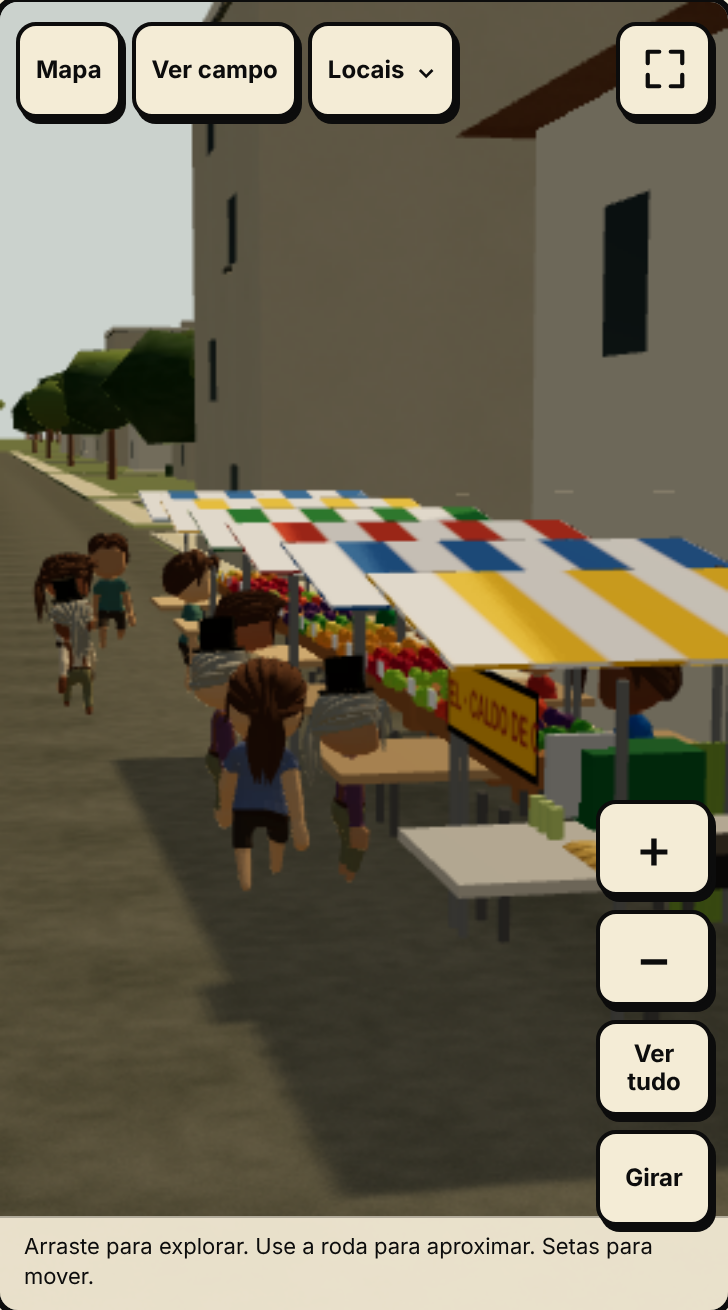
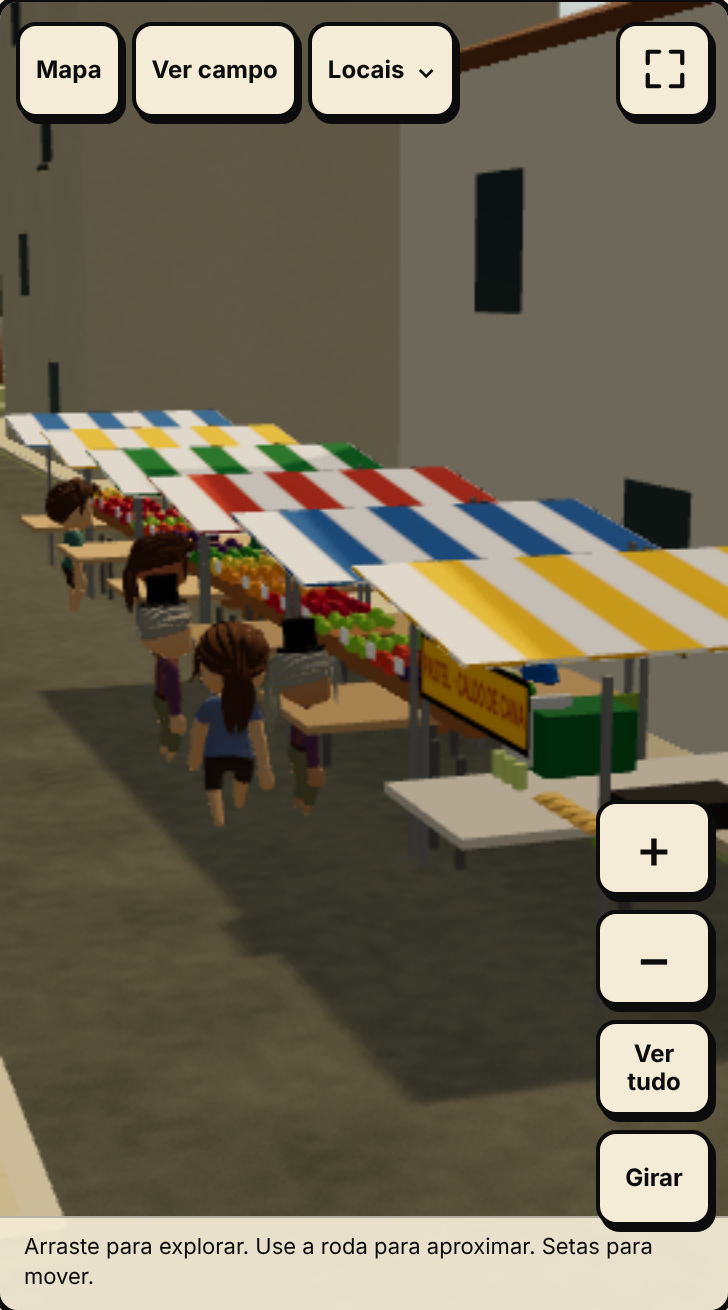
Mapa do Clube: feira livre (sáb/dom de manhã), banca de jornal com O MARTELO e pelada no campinho de terra (de tarde)
- Feira: 6 barracas de lona listrada, caixotes de fruta, feirantes, fregueses e pastel com caldo de cana numa rua do bairro
- Banca verde com revistas, jornaleiro e capa d'O MARTELO com o último jogo já apitado (sem dado: O PREGÃO ESTÁ ABERTO)
- Campinho: praça perto do boteco vira terrão (sem a cruz de calçada), trave de madeira e gol de chinelo; molecada só de tarde
- Câmeras das três vistas ajustadas pro celular, capa sem estourar a largura, fotos em scripts/mockups/mapa-bairro-*.png
- Pendências atualizadas

Claude-Session: https://claude.ai/code/session_018Ap1zPCMVL9XeZJN3u93ZA

diff --git a/src/escalacao/presidencia-bairro-tradicoes-3d.ts b/src/escalacao/presidencia-bairro-tradicoes-3d.ts
@@ -171,7 +171,7 @@ export function criarTradicoesBairro(scene:THREE.Scene,input:{bairro?:BairroEnto
   {const p=at(0,D/2+.53),s=new THREE.Mesh(plano,mat({map:letreiro,roughness:.9}));s.name='banca-letreiro';s.position.set(p.x,y0+H+.15,p.z);s.rotation.y=b.yaw;s.scale.set(W+.4,.38,1);banca.add(s)}
   desenhaLetreiro();letreiroLang=getLang();desenhaCapa(null)
   // a fonte Oswald pode chegar depois do primeiro desenho: redesenha quando ela estiver pronta
-  try{document.fonts?.ready.then(()=>{if(!capa)return;capaKey='';desenhaCapa(ultimoCapa);desenhaLetreiro();input.onReady()}).catch(()=>{})}catch{/* sem FontFaceSet */}
+  try{Promise.all([document.fonts.load(`900 58px ${FONTE}`),document.fonts.load(`700 19px ${FONTE}`)]).then(()=>{if(!capa)return;capaKey='';desenhaCapa(ultimoCapa);desenhaLetreiro();input.onReady()}).catch(()=>{})}catch{/* sem FontFaceSet */}
   {const p=at(0,-.1);pessoa('jornaleiro','banca','older-man','#e8e0c9',parado(p.x,p.z,b.yaw))}
  }
 
@@ -247,7 +247,7 @@ export function criarTradicoesBairro(scene:THREE.Scene,input:{bairro?:BairroEnto
  /** câmera de cada lugar (alvo e posição); `aspect` < .85 = celular em pé, afasta um pouco */
  function vista(kind:VistaTradicao,aspect:number):{target:[number,number,number];camera:[number,number,number]}|undefined{
   const k=aspect<.85?1.45:1
-  if(kind==='feira'&&lugares.feira){const q=quadroDaRua(lugares.feira),m=q.at(q.L*.45,1.2),o=q.at(-3-3.2*k,-2.4);return{target:[m.x,.9,m.z],camera:[o.x,3.2+2.4*k,o.z]}} // da esquina, olhando a rua da feira inteira
+  if(kind==='feira'&&lugares.feira){const q=quadroDaRua(lugares.feira),m=q.at(q.L*.38,1.3),o=q.at(-1.5-2.4*k,-4.2);return{target:[m.x,1,m.z],camera:[o.x,2.3+1.4*k,o.z]}} // da esquina, olhando a rua da feira inteira
   if(kind==='banca'&&lugares.banca){const b=lugares.banca,fx=Math.sin(b.yaw),fz=Math.cos(b.yaw),sx=Math.cos(b.yaw),sz=-Math.sin(b.yaw),tx=b.x+fx*1.3+sx*.8,tz=b.z+fz*1.3+sz*.8;return{target:[tx,1.3,tz],camera:[tx+fx*6.6*k+sx*3*k,2.4+1.1*k,tz+fz*6.6*k+sz*3*k]}}
   if(kind==='campinho'&&lugares.campinho){const c=lugares.campinho;return{target:[c.x-1.5,.3,c.z],camera:[c.x+LX+9*k,4+5*k,c.z+5*k]}} // de trás do gol de chinelo, olhando o campinho todo
   return undefined

diff --git a/docs/pendencias.md b/docs/pendencias.md
@@ -1,3 +1,12 @@
+## 🇧🇷 04/11 — Mapa da aba Clube: tradições do bairro (LOCAL, branch do agente, só a conta de teste do Diego)
+Pedido aprovado: *"coisas bem tradicionais do Brasil, espalhadas pelo mapa, mudando com a hora e o calendário"*.
+- 🍅 **Feira livre**: sábado e domingo de MANHÃ (dia da semana do calendário da carreira; sem calendário, regra estável pela rodada). 6 barracas de lona listrada (amarelo/azul/vermelho/verde), caixotes de fruta, feirantes, fregueses andando e a barraca de pastel com caldo de cana, numa rua do bairro perto do Boteco do Oswaldo (longe do estádio, portões, ônibus e patrocinadores). Fora do horário, rua normal.
+- 📰 **Banca de jornal**: sempre, numa esquina perto do boteco. Verde-escura, revistas penduradas, jornaleiro e o cavalete com a capa d'O MARTELO: manchete do último jogo JÁ APITADO (o mesmo `ultimoJogo` da cidade viva); sem dado, "O PREGÃO ESTÁ ABERTO". Nunca spoiler.
+- ⚽ **Pelada no campinho de terra**: a praça pública mais perto do boteco virou terrão (sem árvore, banco e cruz de calçada). De TARDE, 10 moleques (8 no celular) atrás da bola, trave de madeira de um lado e gol de chinelo do outro; manhã/noite, só as traves.
+- Locais: "Feira livre", "Banca de jornal", "Campinho de terra" (PT/EN). QA: botões 🍅 sábado de manhã / ⚽ quinta à tarde / 🌙 quarta à noite (`window.qaBairro`).
+- Código: `presidencia-bairro-tradicoes.ts` (regras puras) · `presidencia-bairro-tradicoes-3d.ts` (desenho em InstancedMesh, 4 texturas de canvas pequenas, sem luz/sombra nova, tudo em try/catch) · trava `scripts/imersao-mapa/test-bairro-tradicoes.mjs` · fotos `scripts/mockups/mapa-bairro-{feira,banca,pelada}.png` (`shots-bairro-tradicoes.mjs`).
+- ⏳ Pendente: mostrar as fotos pro Diego e esperar o OK visual antes de fundir.
+
 ## 🏙 03/11 — Mapa da aba Clube: a cidade reage à carreira (LOCAL, branch do agente, só a conta de teste do Diego)
 - 🏗 **Obra da cidade** (loja, estacionamento por etapa, praça, choperia, metrô, hotel): na rodada da compra o lote mostra **tapume + guindaste**; jogou a rodada, aparece o prédio. Carimbo NOVO e opcional no save: `StadiumSave.obrasRodada[obra] = "temporada:rodada"`, gravado em `STADIUM_BUILD` e `STADIUM_PARKING_INVEST` (`marcaObraNaRodada`). Save antigo sem carimbo = tudo pronto. Não mexe em preço, renda nem requisito.
 - 🍻 **Boteco do Oswaldo**: vitória = mesas cheias, torcedores pulando e bandeirinhas na cor do clube, placa "VITÓRIA!"; derrota = 2 sentados e a placa "FICA PRA PRÓXIMA"; empate = normal. O resultado só chega depois do apito na tela (`roundReady`), sem spoiler. Só no dia comum (dia de jogo segue o roteiro dele).
